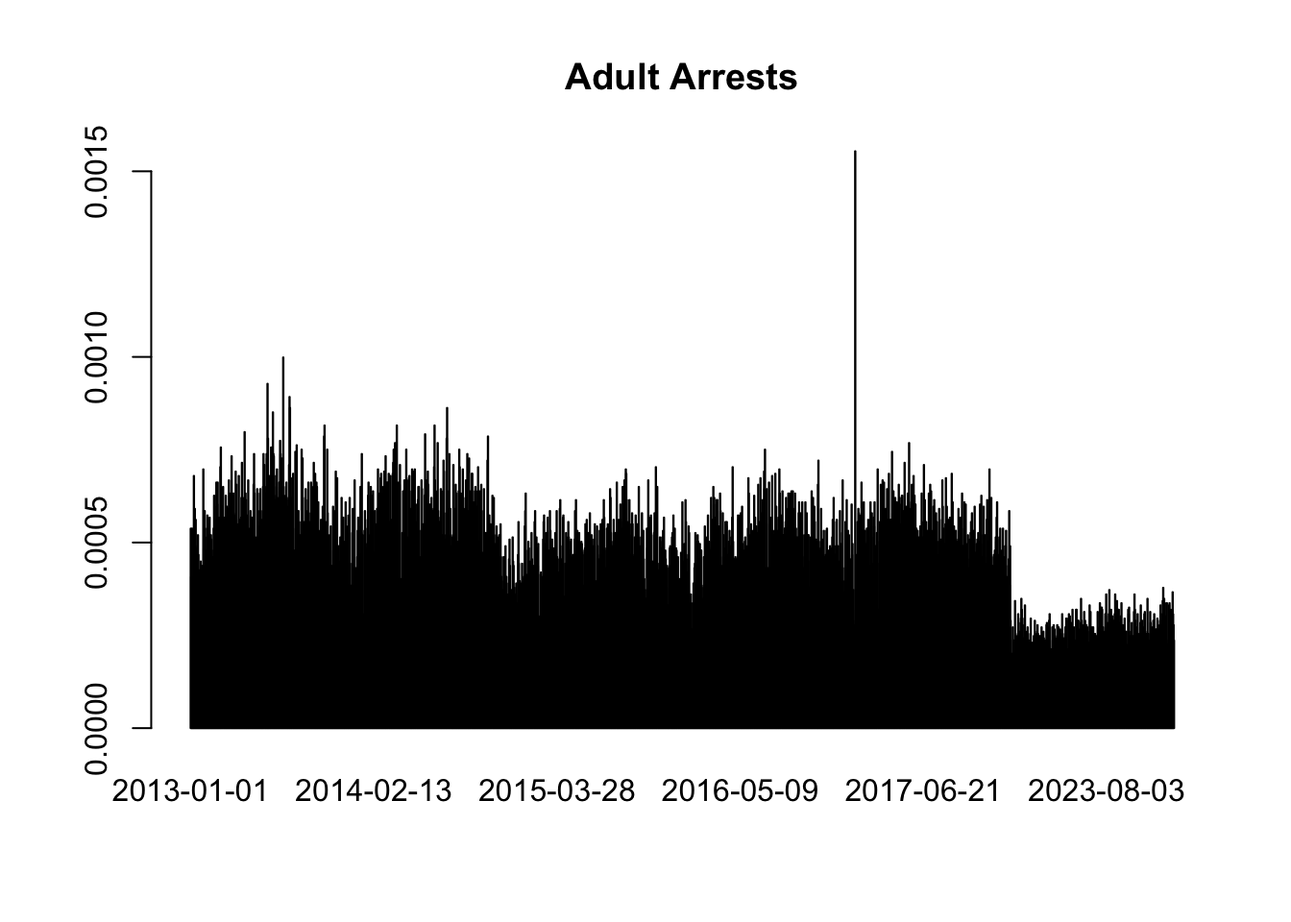
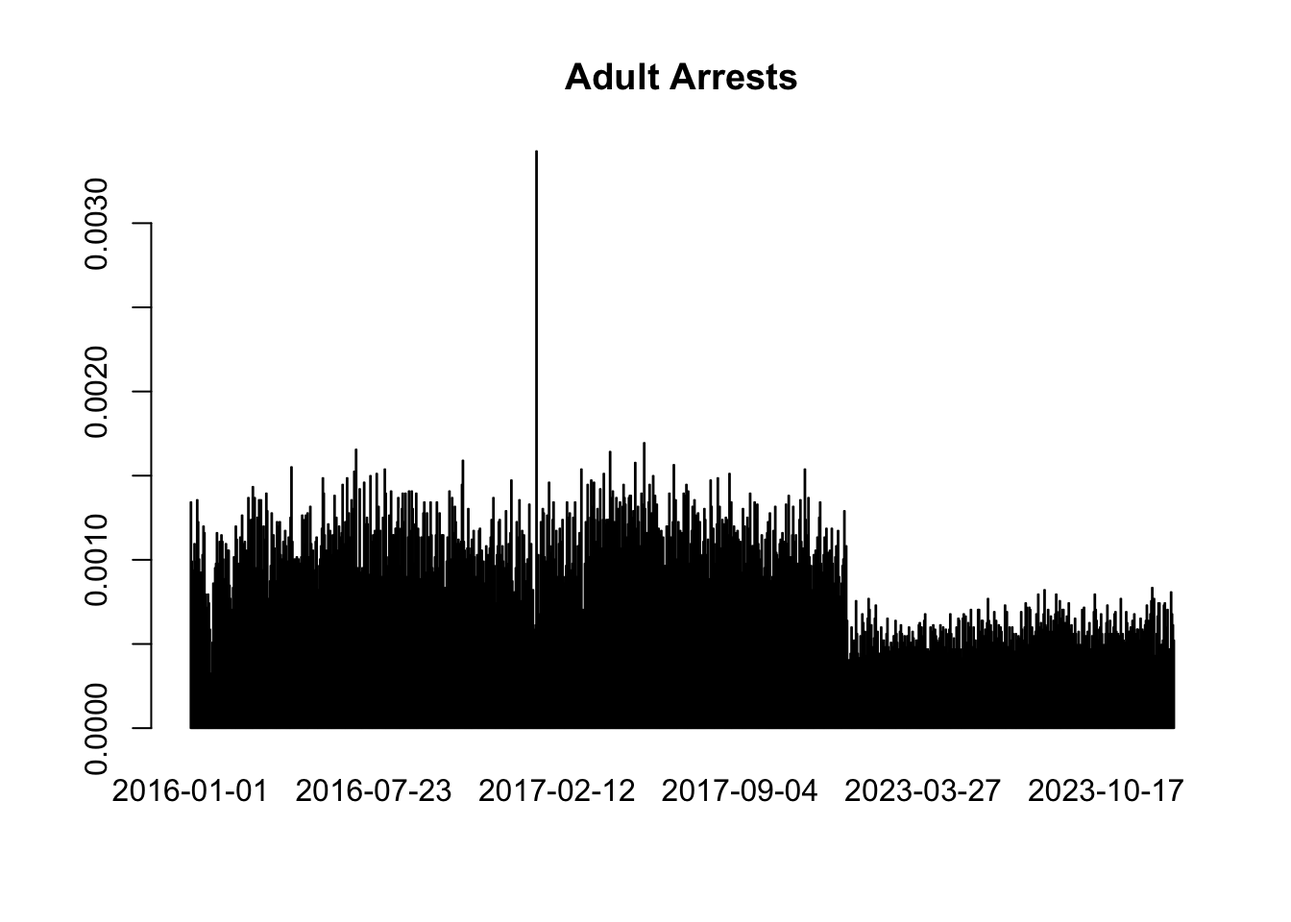
more tests

diff --git a/juv-adult-tests/test1.html b/juv-adult-tests/test1.html
@@ -68,6 +68,35 @@ pre > code.sourceCode > span > a:first-child::before { text-decoration: underlin
 <link href="test1_files/libs/bootstrap/bootstrap-icons.css" rel="stylesheet">
 <link href="test1_files/libs/bootstrap/bootstrap.min.css" rel="stylesheet" id="quarto-bootstrap" data-mode="light">
 
+  <script src="https://cdnjs.cloudflare.com/polyfill/v3/polyfill.min.js?features=es6"></script>
+  <script src="https://cdn.jsdelivr.net/npm/mathjax@3/es5/tex-chtml-full.js" type="text/javascript"></script>
+
+<script type="text/javascript">
+const typesetMath = (el) => {
+  if (window.MathJax) {
+    // MathJax Typeset
+    window.MathJax.typeset([el]);
+  } else if (window.katex) {
+    // KaTeX Render
+    var mathElements = el.getElementsByClassName("math");
+    var macros = [];
+    for (var i = 0; i < mathElements.length; i++) {
+      var texText = mathElements[i].firstChild;
+      if (mathElements[i].tagName == "SPAN") {
+        window.katex.render(texText.data, mathElements[i], {
+          displayMode: mathElements[i].classList.contains('display'),
+          throwOnError: false,
+          macros: macros,
+          fleqn: false
+        });
+      }
+    }
+  }
+}
+window.Quarto = {
+  typesetMath
+};
+</script>
 
 </head>
 
@@ -94,10 +123,14 @@ pre > code.sourceCode > span > a:first-child::before { text-decoration: underlin
 ✖ dplyr::lag()    masks stats::lag()
 ℹ Use the conflicted package (&lt;http://conflicted.r-lib.org/&gt;) to force all conflicts to become errors</code></pre>
 </div>
-<div class="sourceCode cell-code" id="cb3"><pre class="sourceCode r code-with-copy"><code class="sourceCode r"><span id="cb3-1"><a href="#cb3-1" aria-hidden="true" tabindex="-1"></a><span class="fu">library</span>(dplyr)</span></code><button title="Copy to Clipboard" class="code-copy-button"><i class="bi"></i></button></pre></div>
+<div class="sourceCode cell-code" id="cb3"><pre class="sourceCode r code-with-copy"><code class="sourceCode r"><span id="cb3-1"><a href="#cb3-1" aria-hidden="true" tabindex="-1"></a><span class="fu">library</span>(dplyr)</span>
+<span id="cb3-2"><a href="#cb3-2" aria-hidden="true" tabindex="-1"></a><span class="fu">library</span>(DescTools)</span></code><button title="Copy to Clipboard" class="code-copy-button"><i class="bi"></i></button></pre></div>
+<div class="cell-output cell-output-stderr">
+<pre><code>Warning: package 'DescTools' was built under R version 4.4.1</code></pre>
+</div>
 </div>
 <div class="cell">
-<div class="sourceCode cell-code" id="cb4"><pre class="sourceCode r code-with-copy"><code class="sourceCode r"><span id="cb4-1"><a href="#cb4-1" aria-hidden="true" tabindex="-1"></a>adult <span class="ot">&lt;-</span> <span class="fu">read_csv</span>(<span class="st">"../2013-2023/arrests_2013-2023.csv"</span>)</span></code><button title="Copy to Clipboard" class="code-copy-button"><i class="bi"></i></button></pre></div>
+<div class="sourceCode cell-code" id="cb5"><pre class="sourceCode r code-with-copy"><code class="sourceCode r"><span id="cb5-1"><a href="#cb5-1" aria-hidden="true" tabindex="-1"></a>adult <span class="ot">&lt;-</span> <span class="fu">read_csv</span>(<span class="st">"../2013-2023/arrests_2013-2023.csv"</span>) <span class="sc">|&gt;</span> <span class="fu">filter</span>(Arrest.Year <span class="sc">&gt;=</span> <span class="dv">2016</span>)</span></code><button title="Copy to Clipboard" class="code-copy-button"><i class="bi"></i></button></pre></div>
 <div class="cell-output cell-output-stderr">
 <pre><code>Warning: One or more parsing issues, call `problems()` on your data frame for details,
 e.g.:
@@ -114,11 +147,29 @@ dbl (13): Arrest.Year, Arrest.Hour, Age, Arrest.Location.PSA, Arrest.Locatio...
 ℹ Use `spec()` to retrieve the full column specification for this data.
 ℹ Specify the column types or set `show_col_types = FALSE` to quiet this message.</code></pre>
 </div>
-<div class="sourceCode cell-code" id="cb7"><pre class="sourceCode r code-with-copy"><code class="sourceCode r"><span id="cb7-1"><a href="#cb7-1" aria-hidden="true" tabindex="-1"></a>adult<span class="sc">$</span>Arrest.Date <span class="ot">&lt;-</span> <span class="fu">as.Date</span>(adult<span class="sc">$</span>Arrest.Date, <span class="at">format =</span> <span class="st">"%Y-%m-%d"</span>)</span>
-<span id="cb7-2"><a href="#cb7-2" aria-hidden="true" tabindex="-1"></a>grouped_adult <span class="ot">&lt;-</span> adult <span class="sc">|&gt;</span> <span class="fu">group_by</span>(Arrest.Date) <span class="sc">|&gt;</span> <span class="fu">summarize</span>(<span class="at">count =</span> <span class="fu">n</span>())</span>
-<span id="cb7-3"><a href="#cb7-3" aria-hidden="true" tabindex="-1"></a>grouped_adult <span class="ot">&lt;-</span> <span class="fu">head</span>(grouped_adult, <span class="sc">-</span><span class="dv">1</span>) </span>
-<span id="cb7-4"><a href="#cb7-4" aria-hidden="true" tabindex="-1"></a><span class="co"># last date has absurd amount of arrests, on the scale of 10^8</span></span>
-<span id="cb7-5"><a href="#cb7-5" aria-hidden="true" tabindex="-1"></a><span class="fu">barplot</span>(<span class="at">height=</span>grouped_adult<span class="sc">$</span>count, <span class="at">names.arg=</span>grouped_adult<span class="sc">$</span>Arrest.Date, <span class="at">main =</span> <span class="st">"Adult Arrests"</span>)</span></code><button title="Copy to Clipboard" class="code-copy-button"><i class="bi"></i></button></pre></div>
+<div class="sourceCode cell-code" id="cb8"><pre class="sourceCode r code-with-copy"><code class="sourceCode r"><span id="cb8-1"><a href="#cb8-1" aria-hidden="true" tabindex="-1"></a>adult<span class="sc">$</span>Arrest.Date <span class="ot">&lt;-</span> <span class="fu">as.Date</span>(adult<span class="sc">$</span>Arrest.Date, <span class="at">format =</span> <span class="st">"%Y-%m-%d"</span>)</span>
+<span id="cb8-2"><a href="#cb8-2" aria-hidden="true" tabindex="-1"></a>grouped_adult <span class="ot">&lt;-</span> adult <span class="sc">|&gt;</span> <span class="fu">group_by</span>(Arrest.Date) <span class="sc">|&gt;</span> <span class="fu">summarize</span>(<span class="at">count =</span> <span class="fu">n</span>())</span>
+<span id="cb8-3"><a href="#cb8-3" aria-hidden="true" tabindex="-1"></a>grouped_adult <span class="ot">&lt;-</span> <span class="fu">head</span>(grouped_adult, <span class="sc">-</span><span class="dv">1</span>) </span>
+<span id="cb8-4"><a href="#cb8-4" aria-hidden="true" tabindex="-1"></a>grouped_adult<span class="sc">$</span>count <span class="ot">&lt;-</span> grouped_adult<span class="sc">$</span>count <span class="sc">/</span> <span class="fu">sum</span>(grouped_adult<span class="sc">$</span>count)</span>
+<span id="cb8-5"><a href="#cb8-5" aria-hidden="true" tabindex="-1"></a>grouped_adult</span></code><button title="Copy to Clipboard" class="code-copy-button"><i class="bi"></i></button></pre></div>
+<div class="cell-output cell-output-stdout">
+<pre><code># A tibble: 1,096 × 2
+   Arrest.Date    count
+   &lt;date&gt;         &lt;dbl&gt;
+ 1 2016-01-01  0.00134 
+ 2 2016-01-02  0.000990
+ 3 2016-01-03  0.000938
+ 4 2016-01-04  0.000769
+ 5 2016-01-05  0.00109 
+ 6 2016-01-06  0.000691
+ 7 2016-01-07  0.000990
+ 8 2016-01-08  0.00136 
+ 9 2016-01-09  0.00123 
+10 2016-01-10  0.00100 
+# ℹ 1,086 more rows</code></pre>
+</div>
+<div class="sourceCode cell-code" id="cb10"><pre class="sourceCode r code-with-copy"><code class="sourceCode r"><span id="cb10-1"><a href="#cb10-1" aria-hidden="true" tabindex="-1"></a><span class="co"># last date has absurd amount of arrests, on the scale of 10^8</span></span>
+<span id="cb10-2"><a href="#cb10-2" aria-hidden="true" tabindex="-1"></a><span class="fu">barplot</span>(<span class="at">height=</span>grouped_adult<span class="sc">$</span>count, <span class="at">names.arg=</span>grouped_adult<span class="sc">$</span>Arrest.Date, <span class="at">main =</span> <span class="st">"Adult Arrests"</span>)</span></code><button title="Copy to Clipboard" class="code-copy-button"><i class="bi"></i></button></pre></div>
 <div class="cell-output-display">
 <div>
 <figure class="figure">
@@ -128,7 +179,7 @@ dbl (13): Arrest.Year, Arrest.Hour, Age, Arrest.Location.PSA, Arrest.Locatio...
 </div>
 </div>
 <div class="cell">
-<div class="sourceCode cell-code" id="cb8"><pre class="sourceCode r code-with-copy"><code class="sourceCode r"><span id="cb8-1"><a href="#cb8-1" aria-hidden="true" tabindex="-1"></a>juv <span class="ot">&lt;-</span> <span class="fu">read_csv</span>(<span class="st">"../juvenile_arrest_data/all_juvenile_arrests.csv"</span>)</span></code><button title="Copy to Clipboard" class="code-copy-button"><i class="bi"></i></button></pre></div>
+<div class="sourceCode cell-code" id="cb11"><pre class="sourceCode r code-with-copy"><code class="sourceCode r"><span id="cb11-1"><a href="#cb11-1" aria-hidden="true" tabindex="-1"></a>juv <span class="ot">&lt;-</span> <span class="fu">read_csv</span>(<span class="st">"../juvenile_arrest_data/all_juvenile_arrests.csv"</span>)</span></code><button title="Copy to Clipboard" class="code-copy-button"><i class="bi"></i></button></pre></div>
 <div class="cell-output cell-output-stderr">
 <pre><code>New names:
 Rows: 15123 Columns: 5
@@ -139,10 +190,11 @@ Rows: 15123 Columns: 5
 Specify the column types or set `show_col_types = FALSE` to quiet this message.
 • `` -&gt; `...1`</code></pre>
 </div>
-<div class="sourceCode cell-code" id="cb10"><pre class="sourceCode r code-with-copy"><code class="sourceCode r"><span id="cb10-1"><a href="#cb10-1" aria-hidden="true" tabindex="-1"></a>juv<span class="sc">$</span>ARREST_DATE <span class="ot">&lt;-</span> <span class="fu">as.Date</span>(juv<span class="sc">$</span>ARREST_DATE, <span class="at">format =</span> <span class="st">"%m/%d/%y"</span>)</span>
-<span id="cb10-2"><a href="#cb10-2" aria-hidden="true" tabindex="-1"></a>juv<span class="sc">$</span>Arrest.Year <span class="ot">&lt;-</span> <span class="fu">format</span>(juv<span class="sc">$</span>ARREST_DATE,<span class="st">"%y"</span>)</span>
-<span id="cb10-3"><a href="#cb10-3" aria-hidden="true" tabindex="-1"></a>grouped_juv <span class="ot">&lt;-</span> juv <span class="sc">|&gt;</span> <span class="fu">group_by</span>(ARREST_DATE) <span class="sc">|&gt;</span> <span class="fu">summarize</span>(<span class="at">count =</span> <span class="fu">n</span>())</span>
-<span id="cb10-4"><a href="#cb10-4" aria-hidden="true" tabindex="-1"></a><span class="fu">barplot</span>(<span class="at">height=</span>grouped_juv<span class="sc">$</span>count, <span class="at">names.arg=</span>grouped_juv<span class="sc">$</span>ARREST_DATE, <span class="at">main =</span> <span class="st">"Juvenile Arrests"</span>)</span></code><button title="Copy to Clipboard" class="code-copy-button"><i class="bi"></i></button></pre></div>
+<div class="sourceCode cell-code" id="cb13"><pre class="sourceCode r code-with-copy"><code class="sourceCode r"><span id="cb13-1"><a href="#cb13-1" aria-hidden="true" tabindex="-1"></a>juv<span class="sc">$</span>ARREST_DATE <span class="ot">&lt;-</span> <span class="fu">as.Date</span>(juv<span class="sc">$</span>ARREST_DATE, <span class="at">format =</span> <span class="st">"%m/%d/%y"</span>)</span>
+<span id="cb13-2"><a href="#cb13-2" aria-hidden="true" tabindex="-1"></a>juv<span class="sc">$</span>Arrest.Year <span class="ot">&lt;-</span> <span class="fu">format</span>(juv<span class="sc">$</span>ARREST_DATE,<span class="st">"%y"</span>)</span>
+<span id="cb13-3"><a href="#cb13-3" aria-hidden="true" tabindex="-1"></a>grouped_juv <span class="ot">&lt;-</span> juv <span class="sc">|&gt;</span> <span class="fu">group_by</span>(ARREST_DATE) <span class="sc">|&gt;</span> <span class="fu">summarize</span>(<span class="at">count =</span> <span class="fu">n</span>())</span>
+<span id="cb13-4"><a href="#cb13-4" aria-hidden="true" tabindex="-1"></a>grouped_juv<span class="sc">$</span>count <span class="ot">&lt;-</span> grouped_juv<span class="sc">$</span>count <span class="sc">/</span> <span class="fu">sum</span>(grouped_juv<span class="sc">$</span>count)</span>
+<span id="cb13-5"><a href="#cb13-5" aria-hidden="true" tabindex="-1"></a><span class="fu">barplot</span>(<span class="at">height=</span>grouped_juv<span class="sc">$</span>count, <span class="at">names.arg=</span>grouped_juv<span class="sc">$</span>ARREST_DATE, <span class="at">main =</span> <span class="st">"Juvenile Arrests"</span>)</span></code><button title="Copy to Clipboard" class="code-copy-button"><i class="bi"></i></button></pre></div>
 <div class="cell-output-display">
 <div>
 <figure class="figure">
@@ -152,7 +204,7 @@ Specify the column types or set `show_col_types = FALSE` to quiet this message.
 </div>
 </div>
 <div class="cell">
-<div class="sourceCode cell-code" id="cb11"><pre class="sourceCode r code-with-copy"><code class="sourceCode r"><span id="cb11-1"><a href="#cb11-1" aria-hidden="true" tabindex="-1"></a><span class="fu">ks.test</span>(grouped_adult<span class="sc">$</span>count, grouped_juv<span class="sc">$</span>count)</span></code><button title="Copy to Clipboard" class="code-copy-button"><i class="bi"></i></button></pre></div>
+<div class="sourceCode cell-code" id="cb14"><pre class="sourceCode r code-with-copy"><code class="sourceCode r"><span id="cb14-1"><a href="#cb14-1" aria-hidden="true" tabindex="-1"></a><span class="fu">ks.test</span>(grouped_adult<span class="sc">$</span>count, grouped_juv<span class="sc">$</span>count)</span></code><button title="Copy to Clipboard" class="code-copy-button"><i class="bi"></i></button></pre></div>
 <div class="cell-output cell-output-stderr">
 <pre><code>Warning in ks.test.default(grouped_adult$count, grouped_juv$count): p-value
 will be approximate in the presence of ties</code></pre>
@@ -162,16 +214,46 @@ will be approximate in the presence of ties</code></pre>
     Asymptotic two-sample Kolmogorov-Smirnov test
 
 data:  grouped_adult$count and grouped_juv$count
-D = 0.99424, p-value &lt; 2.2e-16
+D = 0.59376, p-value &lt; 2.2e-16
 alternative hypothesis: two-sided</code></pre>
 </div>
 </div>
+<p>grouped.adult &lt;- adult |&gt; group_by(Arrest.Category) |&gt; summarize(count = n()) |&gt; arrange(desc(count)) grouped.adult<span class="math inline">\(count &lt;- grouped.adult\)</span>count / sum(grouped.adult$count) sliced &lt;- grouped.adult |&gt; slice(0:20)</p>
+<p>par(mar = c(30, 4, 4, 4)) barplot(height = sliced<span class="math inline">\(count, names.arg = sliced\)</span>Arrest.Category, las = 2, main = “Adult Arrests”)</p>
+<p>grouped.juv &lt;- juv |&gt; group_by(TOP_CHARGE_DESCRIPTION) |&gt; summarize(count = n()) |&gt; arrange(desc(count)) grouped.juv<span class="math inline">\(count &lt;- grouped.juv\)</span>count / sum(grouped.juv$count) sliced &lt;- grouped.juv |&gt; slice(0:20)</p>
+<p>#barplot(height = sliced<span class="math inline">\(count, names.arg = sliced\)</span>TOP_CHARGE_DESCRIPTION, las = 2, main = “Juvenile Arrests”)</p>
+<p>names(grouped.juv) &lt;- c(“Arrest.Category”, “count.juv”) combined &lt;- full_join(grouped.adult, grouped.juv, by = “Arrest.Category”)</p>
+<p>combined<span class="math inline">\(count.juv &lt;- as.numeric(combined\)</span>count.juv) combined<span class="math inline">\(count &lt;- as.numeric(combined\)</span>count) combined<span class="math inline">\(count.juv[is.na(combined\)</span>count.juv)] &lt;- 0 combined<span class="math inline">\(count[is.na(combined\)</span>count)] &lt;- 0 combined &lt;- data.frame(Adult = combined<span class="math inline">\(count, Juv = combined\)</span>count.juv) combined &lt;- table(combined<span class="math inline">\(Adult, combined\)</span>Juv)</p>
+<section id="perform-g-test-like-chi-squared-test-but-for-small-counts" class="level1">
+<h1>Perform G-test (like chi-squared test but for small counts)</h1>
+<p>GTest(combined)</p>
 <div class="cell">
-<div class="sourceCode cell-code" id="cb14"><pre class="sourceCode r code-with-copy"><code class="sourceCode r"><span id="cb14-1"><a href="#cb14-1" aria-hidden="true" tabindex="-1"></a>grouped.adult <span class="ot">&lt;-</span> adult <span class="sc">|&gt;</span> <span class="fu">group_by</span>(Arrest.Category) <span class="sc">|&gt;</span> <span class="fu">summarize</span>(<span class="at">count =</span> <span class="fu">n</span>()) <span class="sc">|&gt;</span> <span class="fu">arrange</span>(Arrest.Category)</span>
-<span id="cb14-2"><a href="#cb14-2" aria-hidden="true" tabindex="-1"></a>sliced <span class="ot">&lt;-</span> grouped.adult <span class="sc">|&gt;</span> <span class="fu">slice</span>(<span class="dv">0</span><span class="sc">:</span><span class="dv">10</span>)</span>
-<span id="cb14-3"><a href="#cb14-3" aria-hidden="true" tabindex="-1"></a></span>
-<span id="cb14-4"><a href="#cb14-4" aria-hidden="true" tabindex="-1"></a><span class="fu">par</span>(<span class="at">mar =</span> <span class="fu">c</span>(<span class="dv">12</span>, <span class="dv">4</span>, <span class="dv">0</span>, <span class="dv">4</span>))</span>
-<span id="cb14-5"><a href="#cb14-5" aria-hidden="true" tabindex="-1"></a><span class="fu">barplot</span>(<span class="at">height =</span> sliced<span class="sc">$</span>count, <span class="at">names.arg =</span> sliced<span class="sc">$</span>Arrest.Category, <span class="at">las =</span> <span class="dv">2</span>)</span></code><button title="Copy to Clipboard" class="code-copy-button"><i class="bi"></i></button></pre></div>
+<div class="sourceCode cell-code" id="cb17"><pre class="sourceCode r code-with-copy"><code class="sourceCode r"><span id="cb17-1"><a href="#cb17-1" aria-hidden="true" tabindex="-1"></a>grouped.adult <span class="ot">&lt;-</span> adult <span class="sc">|&gt;</span> <span class="fu">group_by</span>(Arrest.Location.PSA) <span class="sc">|&gt;</span> <span class="fu">summarise</span>(<span class="at">count =</span> <span class="fu">n</span>())</span>
+<span id="cb17-2"><a href="#cb17-2" aria-hidden="true" tabindex="-1"></a>grouped.adult<span class="sc">$</span>count <span class="ot">&lt;-</span> grouped.adult<span class="sc">$</span>count <span class="sc">/</span> <span class="fu">sum</span>(grouped.adult<span class="sc">$</span>count)</span>
+<span id="cb17-3"><a href="#cb17-3" aria-hidden="true" tabindex="-1"></a>grouped.adult<span class="sc">$</span>count[<span class="fu">is.na</span>(grouped.adult<span class="sc">$</span>count)] <span class="ot">&lt;-</span> <span class="dv">0</span></span>
+<span id="cb17-4"><a href="#cb17-4" aria-hidden="true" tabindex="-1"></a></span>
+<span id="cb17-5"><a href="#cb17-5" aria-hidden="true" tabindex="-1"></a>grouped.juv <span class="ot">&lt;-</span> juv <span class="sc">|&gt;</span> <span class="fu">group_by</span>(CRIME_PSA) <span class="sc">|&gt;</span> <span class="fu">summarise</span>(<span class="at">count =</span> <span class="fu">n</span>())</span>
+<span id="cb17-6"><a href="#cb17-6" aria-hidden="true" tabindex="-1"></a>grouped.juv<span class="sc">$</span>count <span class="ot">&lt;-</span> grouped.juv<span class="sc">$</span>count <span class="sc">/</span> <span class="fu">sum</span>(grouped.juv<span class="sc">$</span>count)</span>
+<span id="cb17-7"><a href="#cb17-7" aria-hidden="true" tabindex="-1"></a>grouped.juv<span class="sc">$</span>CRIME_PSA <span class="ot">&lt;-</span> <span class="fu">as.double</span>(grouped.juv<span class="sc">$</span>CRIME_PSA)</span></code><button title="Copy to Clipboard" class="code-copy-button"><i class="bi"></i></button></pre></div>
+<div class="cell-output cell-output-stderr">
+<pre><code>Warning: NAs introduced by coercion</code></pre>
+</div>
+<div class="sourceCode cell-code" id="cb19"><pre class="sourceCode r code-with-copy"><code class="sourceCode r"><span id="cb19-1"><a href="#cb19-1" aria-hidden="true" tabindex="-1"></a>grouped.juv<span class="sc">$</span>count[<span class="fu">is.na</span>(grouped.juv<span class="sc">$</span>count)] <span class="ot">&lt;-</span> <span class="dv">0</span></span>
+<span id="cb19-2"><a href="#cb19-2" aria-hidden="true" tabindex="-1"></a><span class="fu">names</span>(grouped.juv) <span class="ot">&lt;-</span> <span class="fu">c</span>(<span class="st">"Arrest.Location.PSA"</span>, <span class="st">"count.juv"</span>)</span>
+<span id="cb19-3"><a href="#cb19-3" aria-hidden="true" tabindex="-1"></a><span class="fu">names</span>(grouped.juv)</span></code><button title="Copy to Clipboard" class="code-copy-button"><i class="bi"></i></button></pre></div>
+<div class="cell-output cell-output-stdout">
+<pre><code>[1] "Arrest.Location.PSA" "count.juv"          </code></pre>
+</div>
+<div class="sourceCode cell-code" id="cb21"><pre class="sourceCode r code-with-copy"><code class="sourceCode r"><span id="cb21-1"><a href="#cb21-1" aria-hidden="true" tabindex="-1"></a><span class="fu">names</span>(grouped.adult)</span></code><button title="Copy to Clipboard" class="code-copy-button"><i class="bi"></i></button></pre></div>
+<div class="cell-output cell-output-stdout">
+<pre><code>[1] "Arrest.Location.PSA" "count"              </code></pre>
+</div>
+<div class="sourceCode cell-code" id="cb23"><pre class="sourceCode r code-with-copy"><code class="sourceCode r"><span id="cb23-1"><a href="#cb23-1" aria-hidden="true" tabindex="-1"></a>combined <span class="ot">&lt;-</span> <span class="fu">full_join</span>(grouped.adult, grouped.juv, <span class="at">by =</span> <span class="st">"Arrest.Location.PSA"</span>)</span>
+<span id="cb23-2"><a href="#cb23-2" aria-hidden="true" tabindex="-1"></a>combined <span class="ot">&lt;-</span> <span class="fu">data.frame</span>(<span class="at">Adult =</span> combined<span class="sc">$</span>count, <span class="at">Juv =</span> combined<span class="sc">$</span>count.juv)</span>
+<span id="cb23-3"><a href="#cb23-3" aria-hidden="true" tabindex="-1"></a>combined <span class="ot">&lt;-</span> <span class="fu">table</span>(combined<span class="sc">$</span>Adult, combined<span class="sc">$</span>Juv)</span>
+<span id="cb23-4"><a href="#cb23-4" aria-hidden="true" tabindex="-1"></a></span>
+<span id="cb23-5"><a href="#cb23-5" aria-hidden="true" tabindex="-1"></a></span>
+<span id="cb23-6"><a href="#cb23-6" aria-hidden="true" tabindex="-1"></a><span class="fu">barplot</span>(<span class="at">height =</span> grouped.adult<span class="sc">$</span>count, <span class="at">las =</span> <span class="dv">2</span>, <span class="at">main =</span> <span class="st">"Adult Arrests"</span>)</span></code><button title="Copy to Clipboard" class="code-copy-button"><i class="bi"></i></button></pre></div>
 <div class="cell-output-display">
 <div>
 <figure class="figure">
@@ -179,9 +261,7 @@ alternative hypothesis: two-sided</code></pre>
 </figure>
 </div>
 </div>
-<div class="sourceCode cell-code" id="cb15"><pre class="sourceCode r code-with-copy"><code class="sourceCode r"><span id="cb15-1"><a href="#cb15-1" aria-hidden="true" tabindex="-1"></a>grouped.juv <span class="ot">&lt;-</span> juv <span class="sc">|&gt;</span> <span class="fu">group_by</span>(TOP_CHARGE_DESCRIPTION) <span class="sc">|&gt;</span> <span class="fu">summarize</span>(<span class="at">count =</span> <span class="fu">n</span>()) <span class="sc">|&gt;</span> <span class="fu">arrange</span>(TOP_CHARGE_DESCRIPTION)</span>
-<span id="cb15-2"><a href="#cb15-2" aria-hidden="true" tabindex="-1"></a>sliced <span class="ot">&lt;-</span> grouped.juv <span class="sc">|&gt;</span> <span class="fu">slice</span>(<span class="dv">0</span><span class="sc">:</span><span class="dv">10</span>)</span>
-<span id="cb15-3"><a href="#cb15-3" aria-hidden="true" tabindex="-1"></a><span class="fu">barplot</span>(<span class="at">height =</span> sliced<span class="sc">$</span>count, <span class="at">names.arg =</span> sliced<span class="sc">$</span>TOP_CHARGE_DESCRIPTION, <span class="at">las =</span> <span class="dv">2</span>)</span></code><button title="Copy to Clipboard" class="code-copy-button"><i class="bi"></i></button></pre></div>
+<div class="sourceCode cell-code" id="cb24"><pre class="sourceCode r code-with-copy"><code class="sourceCode r"><span id="cb24-1"><a href="#cb24-1" aria-hidden="true" tabindex="-1"></a><span class="fu">barplot</span>(<span class="at">height =</span> grouped.juv<span class="sc">$</span>count.juv, <span class="at">main =</span> <span class="st">"Juvenile Arrests"</span>)</span></code><button title="Copy to Clipboard" class="code-copy-button"><i class="bi"></i></button></pre></div>
 <div class="cell-output-display">
 <div>
 <figure class="figure">
@@ -189,25 +269,16 @@ alternative hypothesis: two-sided</code></pre>
 </figure>
 </div>
 </div>
-<div class="sourceCode cell-code" id="cb16"><pre class="sourceCode r code-with-copy"><code class="sourceCode r"><span id="cb16-1"><a href="#cb16-1" aria-hidden="true" tabindex="-1"></a><span class="fu">names</span>(grouped.juv) <span class="ot">&lt;-</span> <span class="fu">c</span>(<span class="st">"Arrest.Category"</span>, <span class="st">"count.juv"</span>)</span>
-<span id="cb16-2"><a href="#cb16-2" aria-hidden="true" tabindex="-1"></a>combined <span class="ot">&lt;-</span> <span class="fu">full_join</span>(grouped.adult, grouped.juv, <span class="at">by =</span> <span class="st">"Arrest.Category"</span>)</span>
-<span id="cb16-3"><a href="#cb16-3" aria-hidden="true" tabindex="-1"></a>combined<span class="sc">$</span>count.juv <span class="ot">&lt;-</span> <span class="fu">as.integer</span>(combined<span class="sc">$</span>count.juv)</span>
-<span id="cb16-4"><a href="#cb16-4" aria-hidden="true" tabindex="-1"></a>combined<span class="sc">$</span>count <span class="ot">&lt;-</span> <span class="fu">as.integer</span>(combined<span class="sc">$</span>count)</span>
-<span id="cb16-5"><a href="#cb16-5" aria-hidden="true" tabindex="-1"></a>combined<span class="sc">$</span>count.juv[<span class="fu">is.na</span>(combined<span class="sc">$</span>count.juv)] <span class="ot">&lt;-</span> <span class="dv">0</span></span>
-<span id="cb16-6"><a href="#cb16-6" aria-hidden="true" tabindex="-1"></a>combined<span class="sc">$</span>count[<span class="fu">is.na</span>(combined<span class="sc">$</span>count)] <span class="ot">&lt;-</span> <span class="dv">0</span></span>
-<span id="cb16-7"><a href="#cb16-7" aria-hidden="true" tabindex="-1"></a>combined <span class="ot">&lt;-</span> <span class="fu">data.frame</span>(<span class="at">Adult =</span> combined<span class="sc">$</span>count, <span class="at">Juv =</span> combined<span class="sc">$</span>count.juv)</span>
-<span id="cb16-8"><a href="#cb16-8" aria-hidden="true" tabindex="-1"></a><span class="fu">chisq.test</span>(combined)</span></code><button title="Copy to Clipboard" class="code-copy-button"><i class="bi"></i></button></pre></div>
-<div class="cell-output cell-output-stderr">
-<pre><code>Warning in chisq.test(combined): Chi-squared approximation may be incorrect</code></pre>
-</div>
+<div class="sourceCode cell-code" id="cb25"><pre class="sourceCode r code-with-copy"><code class="sourceCode r"><span id="cb25-1"><a href="#cb25-1" aria-hidden="true" tabindex="-1"></a><span class="fu">GTest</span>(combined)</span></code><button title="Copy to Clipboard" class="code-copy-button"><i class="bi"></i></button></pre></div>
 <div class="cell-output cell-output-stdout">
 <pre><code>
-    Pearson's Chi-squared test
+    Log likelihood ratio (G-test) test of independence without correction
 
 data:  combined
-X-squared = 220943, df = 300, p-value &lt; 2.2e-16</code></pre>
+G = 491.23, X-squared df = 3306, p-value = 1</code></pre>
 </div>
 </div>
+</section>
 
 </main>
 <!-- /main column -->
